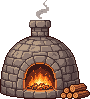
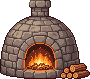
deploy vie 31/07/2026 14:43:05,36

diff --git a/public/index.html b/public/index.html
@@ -26,10 +26,10 @@
   .coin{display:inline-block;width:14px;height:14px;border-radius:50%;flex:0 0 auto}
   .coin.silver{background:radial-gradient(circle at 35% 30%,#f2f4f6,#b9bec6 65%,#8a9098);box-shadow:inset 0 0 0 1px #7c828a}
   .coin.gold{background:radial-gradient(circle at 35% 30%,#ffe9a0,#e6b53c 65%,#b9860b);box-shadow:inset 0 0 0 1px #a97f11}
-  .ric{width:17px;height:17px;object-fit:contain;image-rendering:pixelated;vertical-align:-3px;flex:0 0 auto}
-  .eqimg{width:30px;height:30px;object-fit:contain;image-rendering:pixelated}
-  .dyimg{width:26px;height:26px;object-fit:contain;image-rendering:pixelated}
-  .swimg{width:26px;height:26px;object-fit:contain;image-rendering:pixelated;display:block;margin:0 auto}
+  .ric{width:17px;height:17px;object-fit:contain;image-rendering:auto;vertical-align:-3px;flex:0 0 auto}
+  .eqimg{width:30px;height:30px;object-fit:contain;image-rendering:auto}
+  .dyimg{width:26px;height:26px;object-fit:contain;image-rendering:auto}
+  .swimg{width:26px;height:26px;object-fit:contain;image-rendering:auto;display:block;margin:0 auto}
   .uidrag{outline:2px dashed #e2b23a !important;outline-offset:4px;cursor:move !important;user-select:none}
   .btnpill{font-family:inherit;font-size:12px;padding:6px 11px;border-radius:8px;border:1px solid #3c4d31;background:rgba(38,51,31,.92);color:#f2ead5;cursor:pointer;font-weight:700}
 
@@ -60,7 +60,7 @@
   .slots{display:grid;grid-template-columns:repeat(5,1fr);gap:6px;margin-top:8px;max-height:340px;overflow:auto}
   .slot{aspect-ratio:1;background:#efe3c6;border:2px solid #d3c298;border-radius:8px;position:relative;display:flex;align-items:center;justify-content:center}
   .slot.filled{border-color:#c9b070;background:#fff}   /* detalles viernes (1): fondo blanco para los objetos (testeo visual) */
-  .slot img{width:90%;height:90%;object-fit:contain;image-rendering:pixelated}
+  .slot img{width:90%;height:90%;object-fit:contain;image-rendering:auto}
   .slot .em{font-size:22px;line-height:1}
   .slot .cnt{position:absolute;right:2px;bottom:1px;font-size:11px;font-weight:800;color:#3a2e10;background:rgba(255,255,255,.82);border-radius:5px;padding:0 3px}
   .slot[draggable=true]{cursor:grab}
@@ -77,7 +77,7 @@
   .hcell.eq{box-shadow:inset 0 0 0 2px #6aa9e0}
   .hcell.on{border-color:#f6d878;box-shadow:0 0 0 2px #e2b23a, 0 0 8px rgba(226,178,58,.6)}
   .hcell.ghost{opacity:.4}
-  .hcell img{width:88%;height:88%;object-fit:contain;image-rendering:pixelated}
+  .hcell img{width:88%;height:88%;object-fit:contain;image-rendering:auto}
   .hcell .em{font-size:22px;line-height:1}
   .hcell .cnt{position:absolute;right:2px;bottom:1px;font-size:10px;font-weight:800;color:#3a2e10;background:rgba(255,255,255,.85);border-radius:5px;padding:0 3px}
   .hcell .hk{position:absolute;left:3px;top:1px;font-size:9px;font-weight:800;color:#8aa06f}
@@ -108,8 +108,8 @@
   .mkt-row{display:flex;align-items:center;gap:10px;background:#faf3e2;border:1px solid var(--line);border-radius:10px;padding:8px 10px}
   #shop-buy .mkt-row{background:#fdf9ee}   /* pestaña Comprar más clara (detalles 29/7) */
   .mkt-row .mimg{width:44px;height:44px;display:flex;align-items:center;justify-content:center;font-size:24px;flex:0 0 auto;background:#efe3c6;border:2px solid #d3c298;border-radius:9px}
-  .mkt-row .mimg img{width:82%;height:82%;object-fit:contain;image-rendering:pixelated}
-  .mkt-row .mimg img{width:42px;height:42px;object-fit:contain;image-rendering:pixelated}
+  .mkt-row .mimg img{width:82%;height:82%;object-fit:contain;image-rendering:auto}
+  .mkt-row .mimg img{width:42px;height:42px;object-fit:contain;image-rendering:auto}
   .mkt-row .minfo{flex:1;min-width:0}
   .mkt-row .mnm{font-weight:700;font-size:13px}
   .mkt-row .mds{font-size:11px;color:var(--muted)}
@@ -118,7 +118,7 @@
   .skgrid{display:flex;flex-direction:column;gap:8px;max-height:60vh;overflow:auto}
   .skrow{display:flex;align-items:center;gap:11px;background:#faf3e2;border:1px solid var(--line);border-radius:10px;padding:8px 11px}
   .skrow .ic{font-size:22px;width:32px;text-align:center;flex:0 0 auto}
-  .skrow .ic .skic{width:30px;height:30px;object-fit:contain;image-rendering:pixelated;vertical-align:middle}
+  .skrow .ic .skic{width:30px;height:30px;object-fit:contain;image-rendering:auto;vertical-align:middle}
   .skrow .body{flex:1;min-width:0}
   .skrow .nm{font-weight:700;font-size:13px;display:flex;justify-content:space-between}
   .skrow .nm .lv{color:var(--gold-deep)}
@@ -130,7 +130,7 @@
   @media(max-width:520px){.eqgrid{grid-template-columns:1fr}}
   .eqcard{display:flex;align-items:center;gap:10px;background:#faf3e2;border:1px solid var(--line);border-radius:11px;padding:10px}
   .eqcard .ic{width:44px;height:44px;flex:0 0 auto;background:#efe3c6;border:2px solid #d3c298;border-radius:9px;display:flex;align-items:center;justify-content:center;font-size:24px}
-  .eqcard .ic img{width:78%;height:78%;object-fit:contain;image-rendering:pixelated}
+  .eqcard .ic img{width:78%;height:78%;object-fit:contain;image-rendering:auto}
   .eqcard .nm{font-weight:700;font-size:13px}
   .eqcard .st{font-size:11px;color:var(--muted);margin-top:2px}
   .eqcard .st.busy{color:var(--red);font-weight:700}.eqcard .st.ok{color:var(--green);font-weight:700}
@@ -155,7 +155,7 @@
   .forge-row{display:flex;align-items:center;gap:10px;background:#faf3e2;border:1px solid var(--line);border-radius:11px;padding:9px 10px}
   .forge-row.eq{border-color:var(--gold);box-shadow:0 0 0 1px var(--gold) inset}
   .forge-row .fic{width:46px;height:46px;flex:0 0 auto;background:#efe3c6;border:2px solid #d3c298;border-radius:9px;display:flex;align-items:center;justify-content:center;font-size:22px}
-  .forge-row .fic img{width:82%;height:82%;object-fit:contain;image-rendering:pixelated}
+  .forge-row .fic img{width:82%;height:82%;object-fit:contain;image-rendering:auto}
   .forge-row .finfo{flex:1;min-width:0}
   .forge-row .fnm{font-weight:800;font-size:13px}
   .forge-row .fnm .tag{font-size:10px;color:var(--green);border:1px solid var(--green);border-radius:6px;padding:0 5px;margin-left:6px}
@@ -281,8 +281,8 @@
   button.shoptab,button.lbtab,button.curbtn,button.ltab,.close{box-shadow:none !important}
   /* pestaña activa fundida con la placa: baja 14px (el grosor del marco) y su interior conecta con el de la tabla */
   .shoptabs,.lbtabs{align-items:flex-end}
-  .shoptab.active{margin-bottom:-14px;padding-bottom:18px}
-  .lbtab.active{margin-bottom:-14px;padding-bottom:17px}
+  .shoptab.active{margin-bottom:-18px;padding-bottom:22px}
+  .lbtab.active{margin-bottom:-18px;padding-bottom:21px}
   .lbtab{margin-bottom:0;position:relative;z-index:2}
   .curbtn{padding:1px 7px}
   .shoptab.active,.lbtab.active,.curbtn.active,
@@ -320,15 +320,17 @@
 
   /* cofre diario */
   .dyrow{display:flex;gap:6px;justify-content:center;margin:10px 0;flex-wrap:wrap}
-  .dylock{width:56px;text-align:center;padding:7px 2px 5px;background:#3a2b1c url("assets/ui/slot_wood.png") center/100% 100% no-repeat;image-rendering:pixelated}
+  /* días del cofre en pergamino (estándar Configuración) — nada de cajas negras estiradas */
+  .dylock{width:56px;text-align:center;padding:7px 2px 5px;background:#f2e5c4;border:2px solid #d9c290;border-radius:9px}
   .dylock .ic{font-size:17px}
-  .dylock .dl{font-size:9px;color:#e8d3a8;font-weight:700}
-  .dylock.fut{filter:grayscale(.5) brightness(.75)}
-  .dylock.done{opacity:.85}
-  .dylock.now{box-shadow:0 0 0 2px #f6d878, 0 0 14px rgba(246,216,120,.8);transform:scale(1.08)}
+  .dylock .dl{font-size:9.5px;color:#8a6d1e;font-weight:800}
+  .dylock.fut{opacity:.55}
+  .dylock.done{background:#e6ecc6;border-color:#9fbf72}
+  .dylock.done .dl{color:#2f4a1c}
+  .dylock.now{background:#f4e6b5;border-color:#d4ab4a;box-shadow:0 0 0 2px #f6d878, 0 0 14px rgba(246,216,120,.8);transform:scale(1.08)}
   .dycenter{display:flex;align-items:center;justify-content:center;gap:16px;margin:10px 0}
   #dy-chest{width:92px;image-rendering:pixelated}
-  .dyreward{font-weight:800;font-size:14px;max-width:240px;color:#5a3c14}
+  .dyreward{font-weight:800;font-size:14px;max-width:260px;color:#2e2a1f;background:#f2e5c4;border:1px solid #d9c290;border-radius:9px;padding:7px 11px}
   .dynote{text-align:center;font-size:11px;color:#8a6a3a;margin-top:10px}
   .dyreward .bad{color:#b8452f;display:block;font-size:12px}
 

diff --git a/public/game/boot.js b/public/game/boot.js
@@ -49,7 +49,7 @@ class BootScene extends Phaser.Scene {
     ["fish_comun","fish_raro"].forEach(k => L.push([k, P + k + ".png"]));   // pececitos de la laguna
     ["sword","bow"].forEach(k => L.push([k, P + k + ".png"]));   // arma visible al atacar en el Bosque
     L.push(["cocina", P + "cocina.png"]);   // edificio de Cocina (detalles 29/7)
-    L.push(["horno", P + "horno.png"]);     // Horno de Piedra (detalles viernes 1): fundición de barras
+    L.push(["horno", P + "horno.png?v=2"]);     // Horno de Piedra (detalles viernes 1): fundición de barras
     // arte cozy nuevo (v2 rompe el caché del arte viejo)
     L.push(["tree_stump", P + "tree_stump.png?v=2"]);
     L.push(["sprout", P + "sprout.png?v=4"]);
